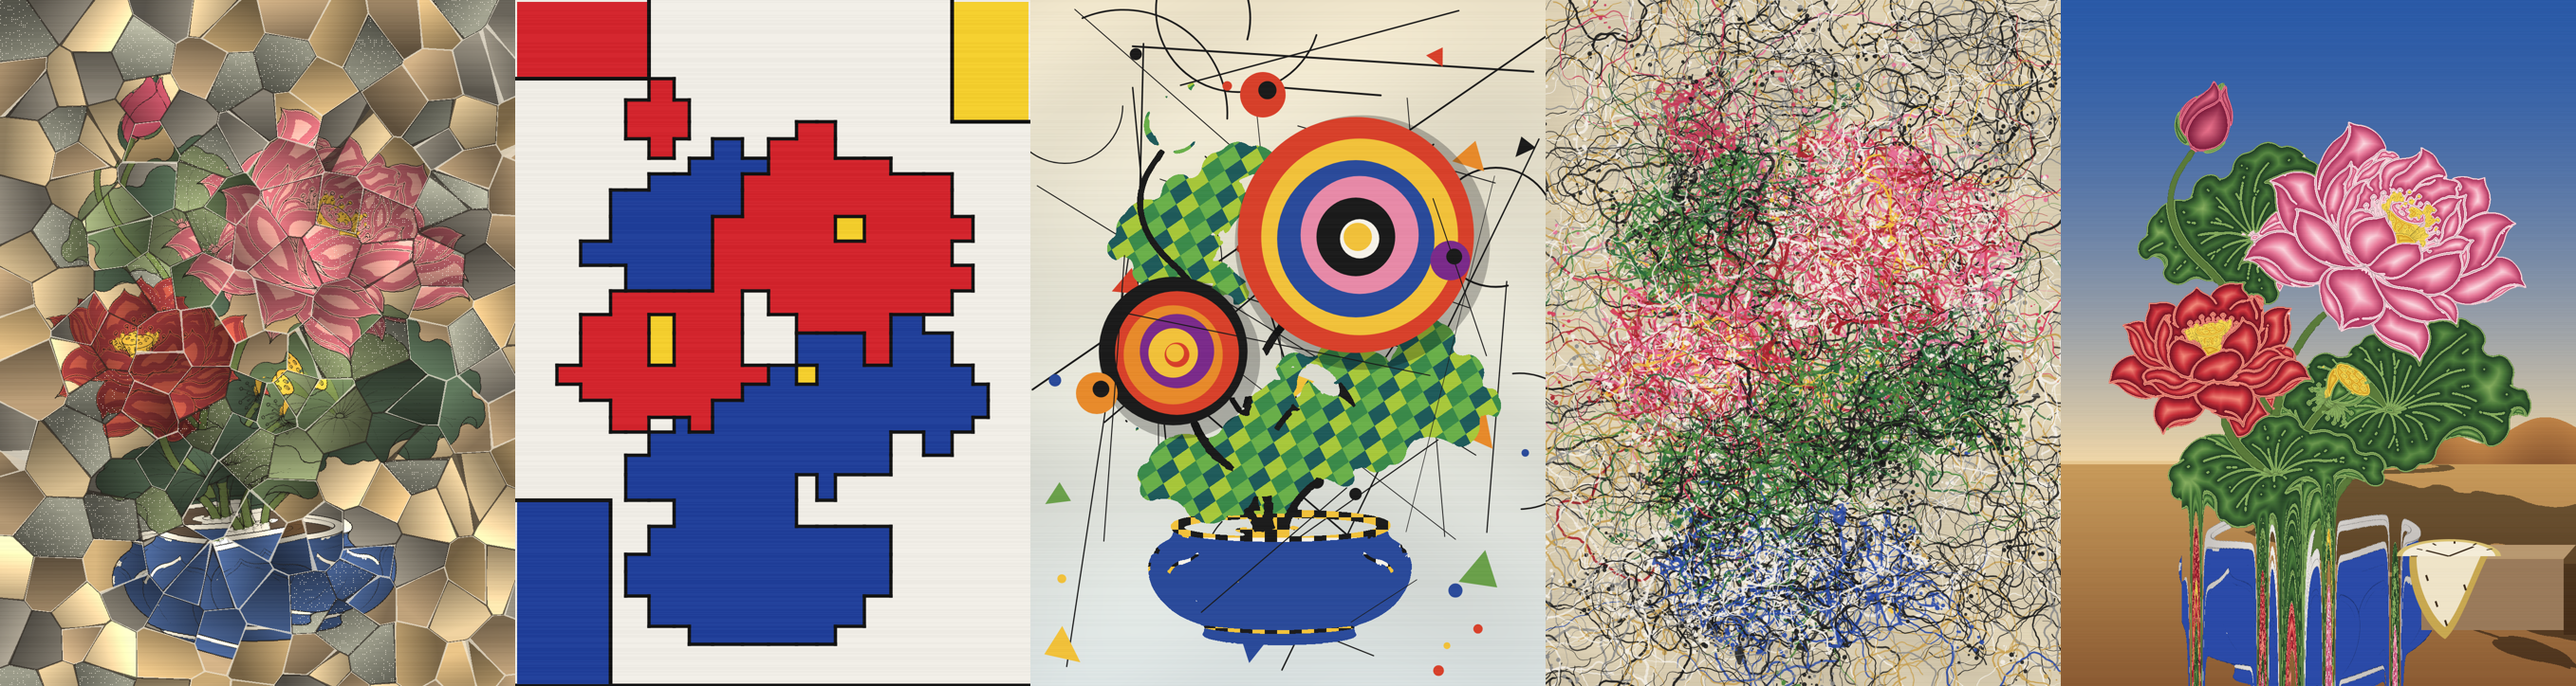
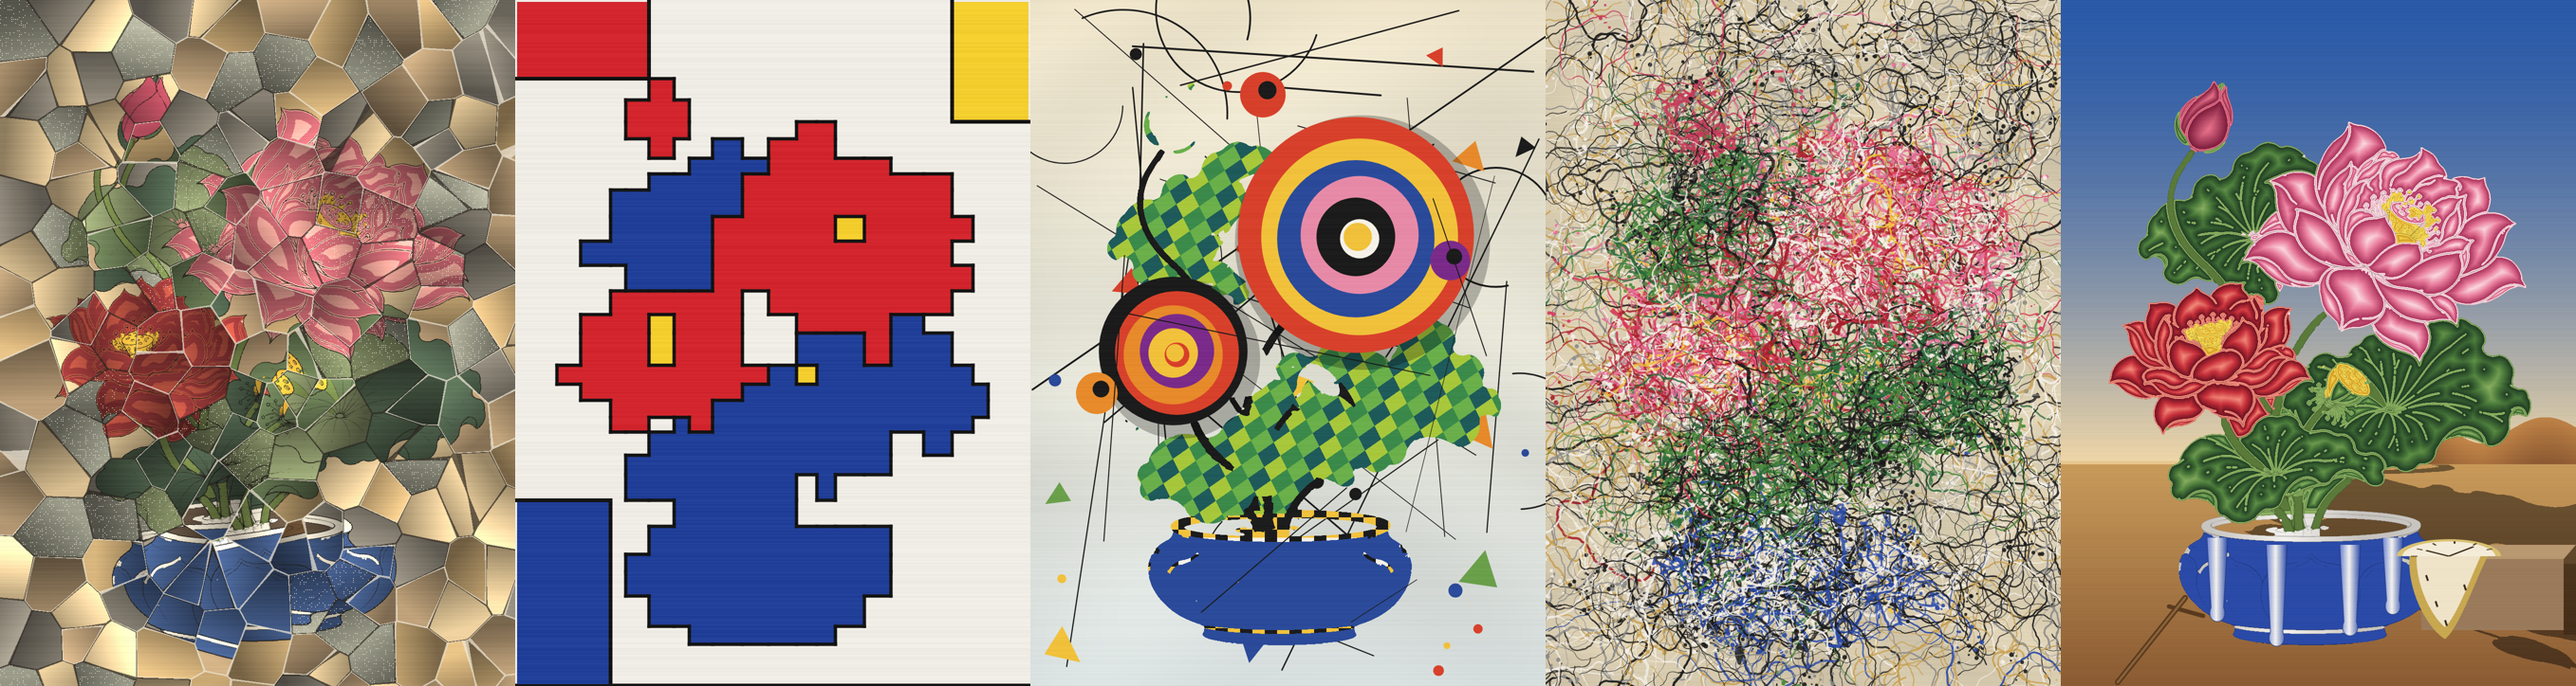
Lotus Dali: intact bowl with melting glaze drips and crutch
Claude-Session: https://claude.ai/code/session_01Vdfste3ym7yyiZRhYkiYaU

Changed region(s): [[0.8354, 0.6989, 0.9591, 1.0]]

diff --git a/projects/lotus_masters_20261109/lineart/paint_more.html b/projects/lotus_masters_20261109/lineart/paint_more.html
@@ -158,13 +158,7 @@ const noise = (x, y) => Math.sin(x * 0.011 + Math.sin(y * 0.007) * 3) * Math.cos
       return null;
     };
     // melt: pixels below a sagging line are pulled downward in long drips
-    const drip = (x, y) => {
-      const start = 1040 + 40 * Math.sin(x * 0.02);
-      if (y < start || x < meta.vase.x0 + 10 || x > meta.vase.x1 - 10) return 0;
-      // a few long, narrow drips hanging from the sagging vase
-      const tongue = Math.pow(Math.max(0, Math.sin(x * 0.045 + 1.3)), 8) * 2.2 + Math.pow(Math.max(0, Math.sin(x * 0.017 - 0.4)), 10) * 1.6;
-      return (y - start) * (0.25 + tongue);
-    };
+    const drip = () => 0;     // the bowl stays whole; its melt is painted on top below
     const horizon = 980;
     fillPixels((x, y) => {
       // desert dream landscape
@@ -189,6 +183,16 @@ const noise = (x, y) => Math.sin(x * 0.011 + Math.sin(y * 0.007) * 3) * Math.cos
     ctx.fillStyle = 'rgba(40,20,10,0.35)'; ctx.fillRect(bx1, by0 + 10, 26, by1 - by0);
     // a soft watch draped over the block's edge (The Persistence of Memory)
     const cx = 830, cy = by0 - 6;
+    // porcelain glaze melting off the rim: long soft drips that slide down the bowl face and pool on the ground
+    [[330, 1135, 1300], [455, 1150, 1352], [610, 1150, 1330], [700, 1135, 1285]].forEach(([x, y0, y1]) => {
+      const w = 22; const g = ctx.createLinearGradient(x - w, 0, x + w, 0); g.addColorStop(0, '#6a82d0'); g.addColorStop(0.45, '#f4f2ee'); g.addColorStop(1, '#2a4aa8');
+      ctx.fillStyle = g; ctx.beginPath(); ctx.moveTo(x - w, y0); ctx.lineTo(x - w * 0.6, y1 - 18); ctx.bezierCurveTo(x - w * 1.3, y1 + 22, x + w * 1.3, y1 + 22, x + w * 0.6, y1 - 18); ctx.lineTo(x + w, y0); ctx.fill();
+      ctx.strokeStyle = 'rgba(30,50,120,0.6)'; ctx.lineWidth = 2; ctx.stroke(); });
+    // Dali's crutch props up the bowl (a pole with a fork at the top, held by a bar)
+    ctx.strokeStyle = '#5a3a1e'; ctx.lineCap = 'round';
+    ctx.lineWidth = 12; ctx.beginPath(); ctx.moveTo(120, 1440); ctx.lineTo(262, 1262); ctx.stroke();
+    ctx.lineWidth = 9; ctx.beginPath(); ctx.moveTo(228, 1280); ctx.lineTo(300, 1300); ctx.stroke();
+    ctx.lineWidth = 5; ctx.strokeStyle = '#8a6238'; ctx.beginPath(); ctx.moveTo(120, 1440); ctx.lineTo(262, 1262); ctx.stroke(); ctx.lineCap = 'butt';
     ctx.save(); ctx.translate(cx, cy);
     // the part hanging down the front face
     ctx.fillStyle = '#c8a850'; ctx.beginPath(); ctx.moveTo(-95, 0); ctx.bezierCurveTo(-100, 70, -60, 150, -20, 175); ctx.bezierCurveTo(10, 150, 40, 60, 70, 0); ctx.fill();
